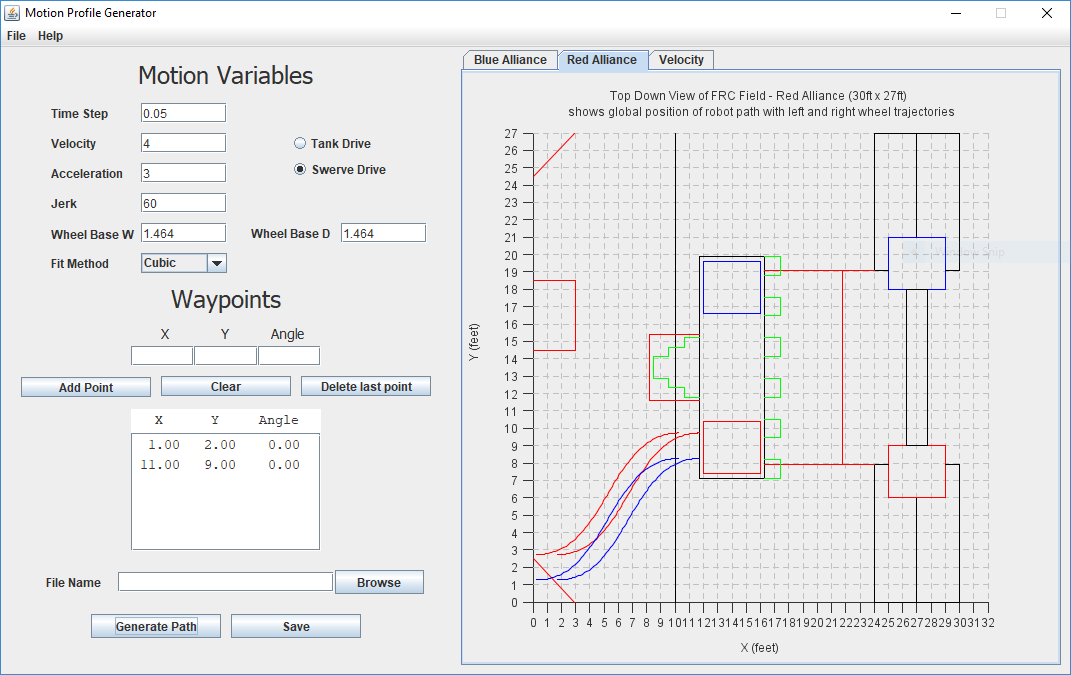
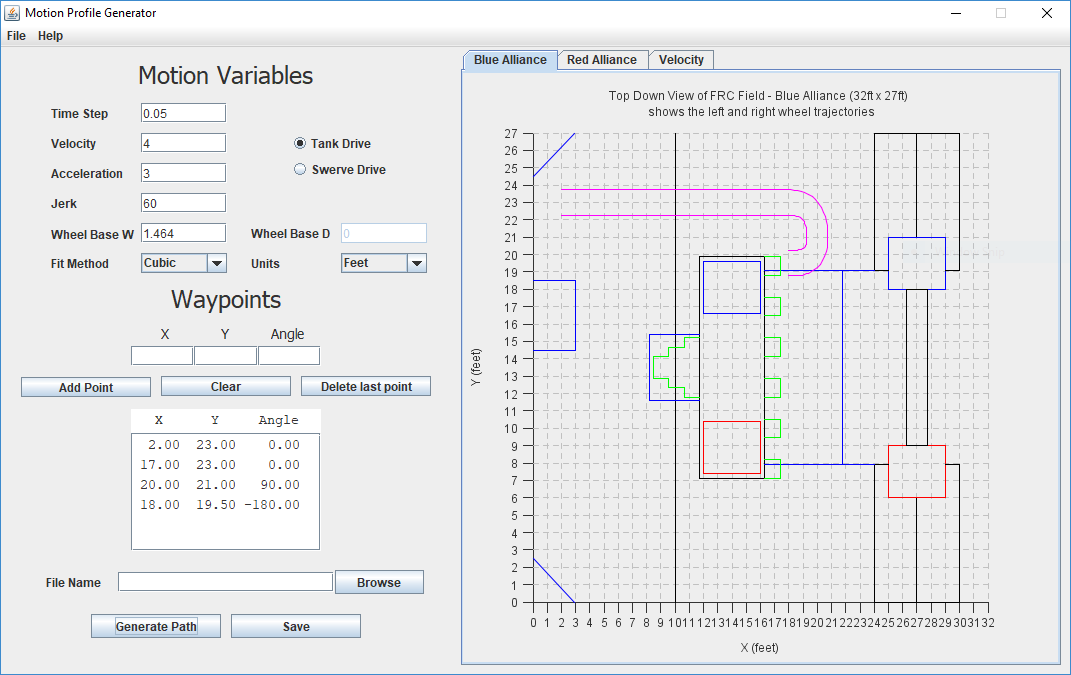
Release Build 2.3.0

diff --git a/src/pathGenerator/Gui.java b/src/pathGenerator/Gui.java
@@ -485,7 +485,7 @@ public class Gui {
 		lblMotionProfileGenerator.setBounds(109, 29, 365, 64);
 		panel.add(lblMotionProfileGenerator);
 		
-		JLabel lblVersion = new JLabel("Version 2.2.0");
+		JLabel lblVersion = new JLabel("Version 2.3.0");
 		lblVersion.setFont(new Font("Arial", Font.PLAIN, 14));
 		lblVersion.setBounds(82, 104, 85, 14);
 		panel.add(lblVersion);

diff --git a/README.md b/README.md
@@ -7,25 +7,28 @@ Generate Motion Profiles to follow with a Talon SRX
 
 ## Motion Variables
 ---
+- **Units**
+	- Units can be chosen via a drop down menu
+	- Feet or Meters
 - **Time Step**
 	- The rate at which the control loop on the RoboRio runs
 	- Units are in seconds
 - **Velocity**
 	- The max velocity rate your robot is capable of achieving
-	- Units are in ft/s
+	- Units are in ft/s or m/s
 - **Acceleration**
 	- The max acceleration rate your robot is capable of achieving
-	- Units are in ft/s/s
+	- Units are in ft/s/s or m/s/s
 - **Jerk**
 	- The rate of change of acceleration; that is, the derivative of acceleration with respect to time
-	- Units are in ft/s/s/s
+	- Units are in ft/s/s/s or m/s/s/s
 - **Wheel Base W**
 	- The distance between your left and right wheels
-	- Units are in feet
+	- Units are in feet or meters
 - **Wheel Base D**
 	- The distance between your front and back wheels
 	- Used with the Swerve modifier
-	- Units are in feet
+	- Units are in feet or meters
 	
 ## Waypoints
 ---

diff --git a/CHANGELOG.md b/CHANGELOG.md
@@ -4,9 +4,9 @@ All notable changes to this project will be documented in this file.
 The format is based on [Keep a Changelog](http://keepachangelog.com/en/1.0.0/)
 and this project adheres to [Semantic Versioning](http://semver.org/spec/v2.0.0.html).
 
-## Unreleased
+## [2.3.0] - 2018-2-22
 ### Added
-- Added ability to choose between different units
+- Added ability to choose between different units (Feet and Meters)
 
 ### Fixed
 - Bug where a user could get stuck in point update mode
